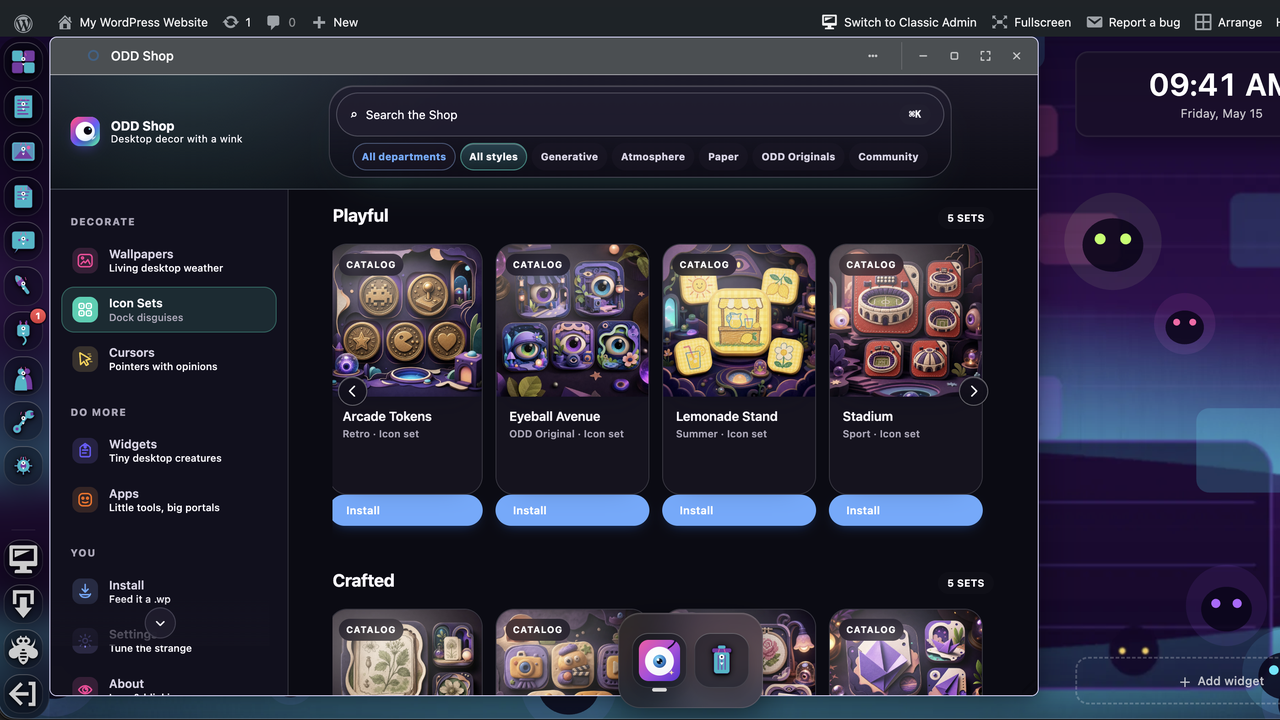
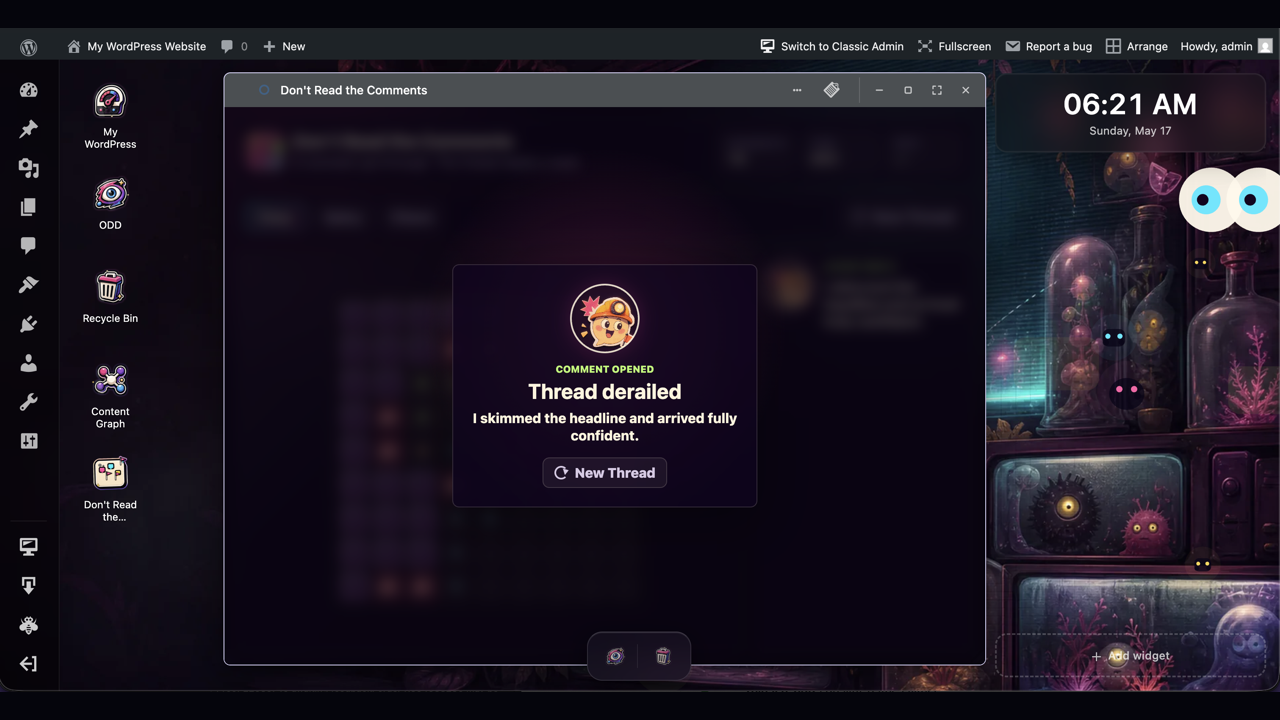
docs: refresh WP.org screenshots

diff --git a/docs/wp-org-submission.md b/docs/wp-org-submission.md
@@ -29,9 +29,9 @@ Directory assets live in `/assets/` on the SVN side (sibling of `/trunk/`, `/tag
 | `banner-772x250.png`  | 772x250          | Standard directory header banner                        |
 | `icon-256x256.gif`    | 256x256          | High-DPI animated directory icon                        |
 | `icon-128x128.gif`    | 128x128          | Standard animated directory icon                        |
-| `screenshot-1.png`    | 1280x720 target  | Desktop with themed wallpaper, icons, cursors, widgets  |
-| `screenshot-2.png`    | 1280x720 target  | Wallpaper department with direct apply controls         |
-| `screenshot-3.png`    | 1280x720 target  | Icon Sets department with catalog cards                 |
+| `screenshot-1.png`    | 1280x720 target  | Desktop with living wallpaper, icons, widgets           |
+| `screenshot-2.png`    | 1280x720 target  | ODD Shop wallpaper department with catalog cards        |
+| `screenshot-3.png`    | 1280x720 target  | Don't Read the Comments running in a desktop window     |
 
 Generated banner and animated icon files are kept in [`wporg-assets/`](../wporg-assets/). WordPress.org documents GIF as a valid extension for `icon-128x128` and `icon-256x256`; do not upload `icon.svg` with the animated icon set because SVG can take precedence over raster icons in WordPress icon selection paths. Screenshots should be captured from the stable live demo at `https://odd.regionallyfamous.com/go/` at 1x zoom, cropped to the desktop surface, and saved as lowercase PNG files that match the `readme.txt` screenshot captions. WordPress.org permits PNG or JPG screenshots, but local PNG keeps the desktop UI crisp.
 

diff --git a/wporg-assets/README.md b/wporg-assets/README.md
@@ -10,9 +10,9 @@ These files are staged for the top-level `assets/` directory in the WordPress.or
 | `banner-1544x500.png` | 1544x500 | High-DPI plugin page banner |
 | `icon-128x128.gif` | 128x128 | Standard animated directory icon |
 | `icon-256x256.gif` | 256x256 | High-DPI animated directory icon |
-| `screenshot-1.png` | 1280x720 | Desktop with themed wallpaper, icons, cursors, widgets, and docked ODD apps |
-| `screenshot-2.png` | 1280x720 | Wallpaper department with preview/apply controls |
-| `screenshot-3.png` | 1280x720 | Icon Sets department with catalog cards and install actions |
+| `screenshot-1.png` | 1280x720 | Decorated desktop with living wallpaper, icons, widgets, and docked desk tools |
+| `screenshot-2.png` | 1280x720 | ODD Shop wallpaper department with catalog cards and install actions |
+| `screenshot-3.png` | 1280x720 | Don't Read the Comments desktop app running in its own window |
 | `source/banner-texture.png` | Source | Exact high-DPI no-text header base used to export the banners |
 | `source/banner-imagegen-header.png` | Source | Original generated header artwork before exact WP.org cropping |
 | `source/static-icon/` | Source | Static PNG/SVG icon fallbacks retained for future use |